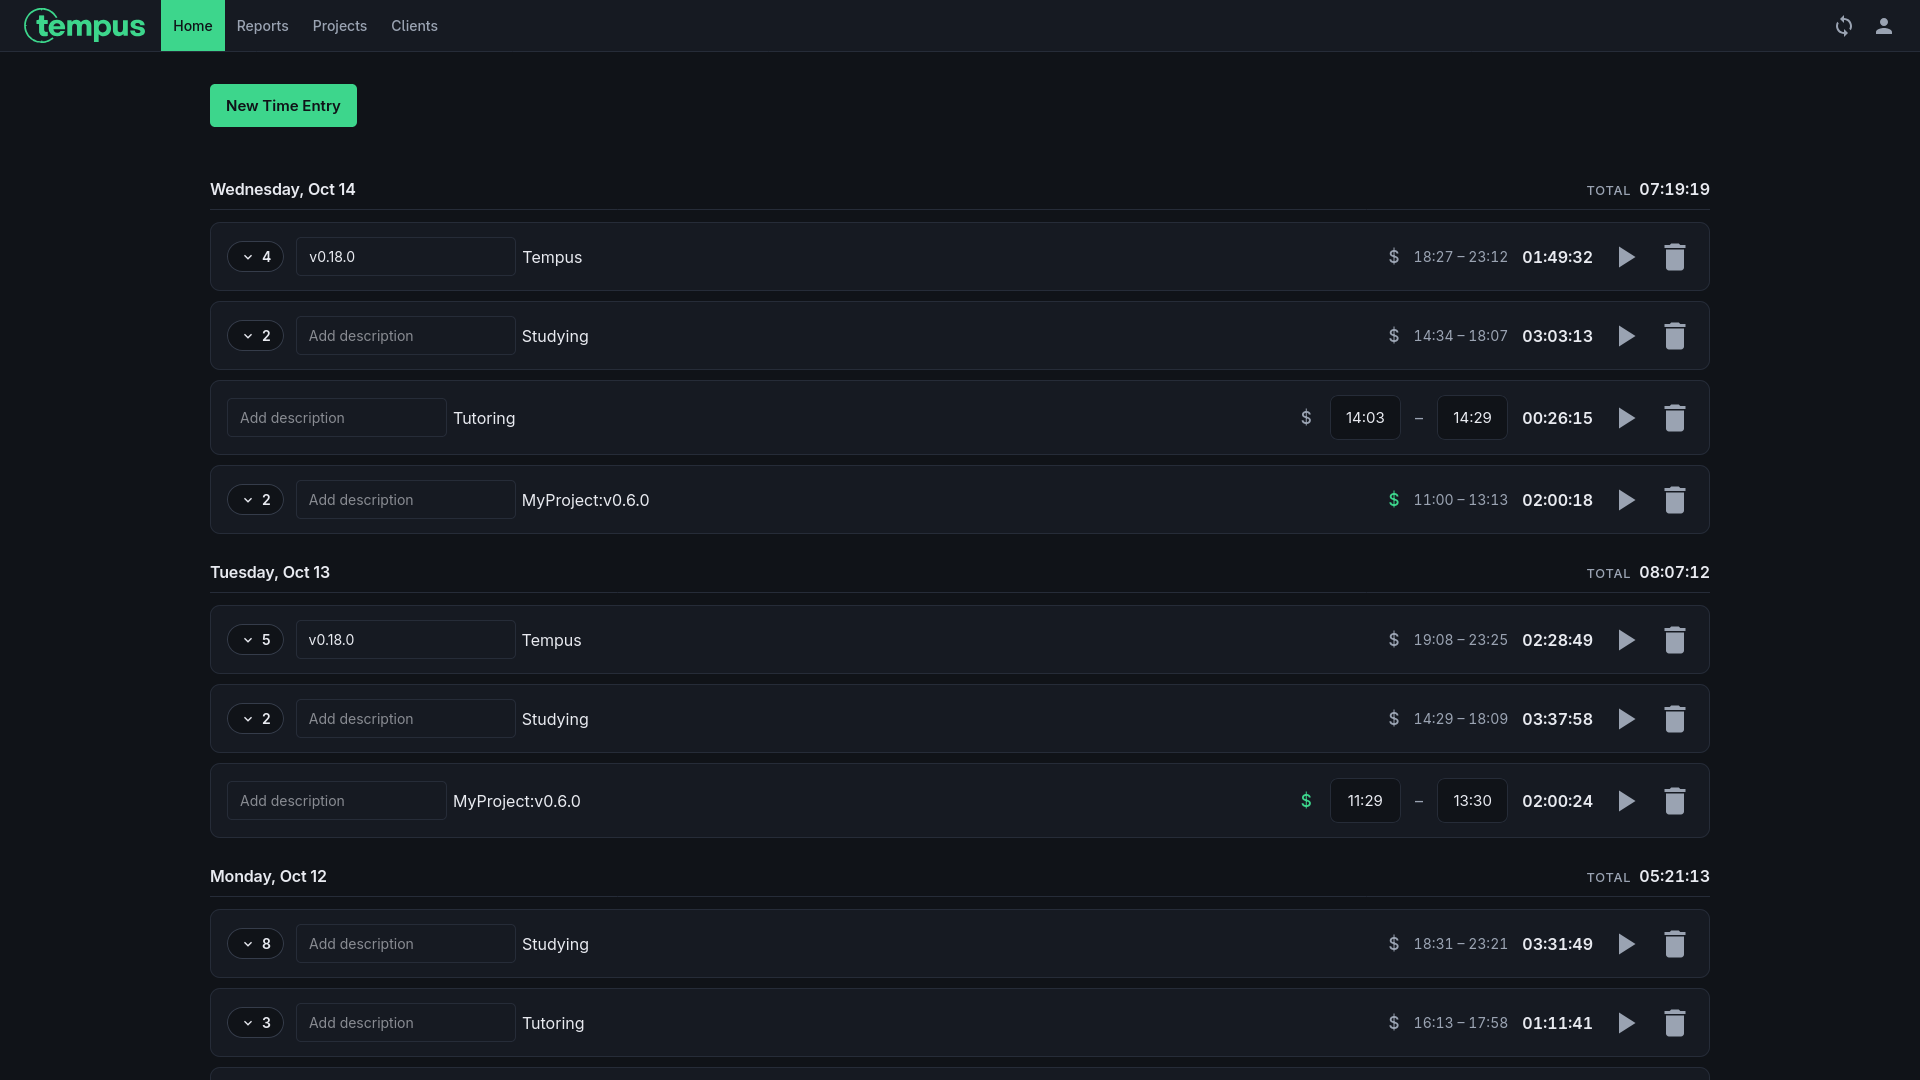
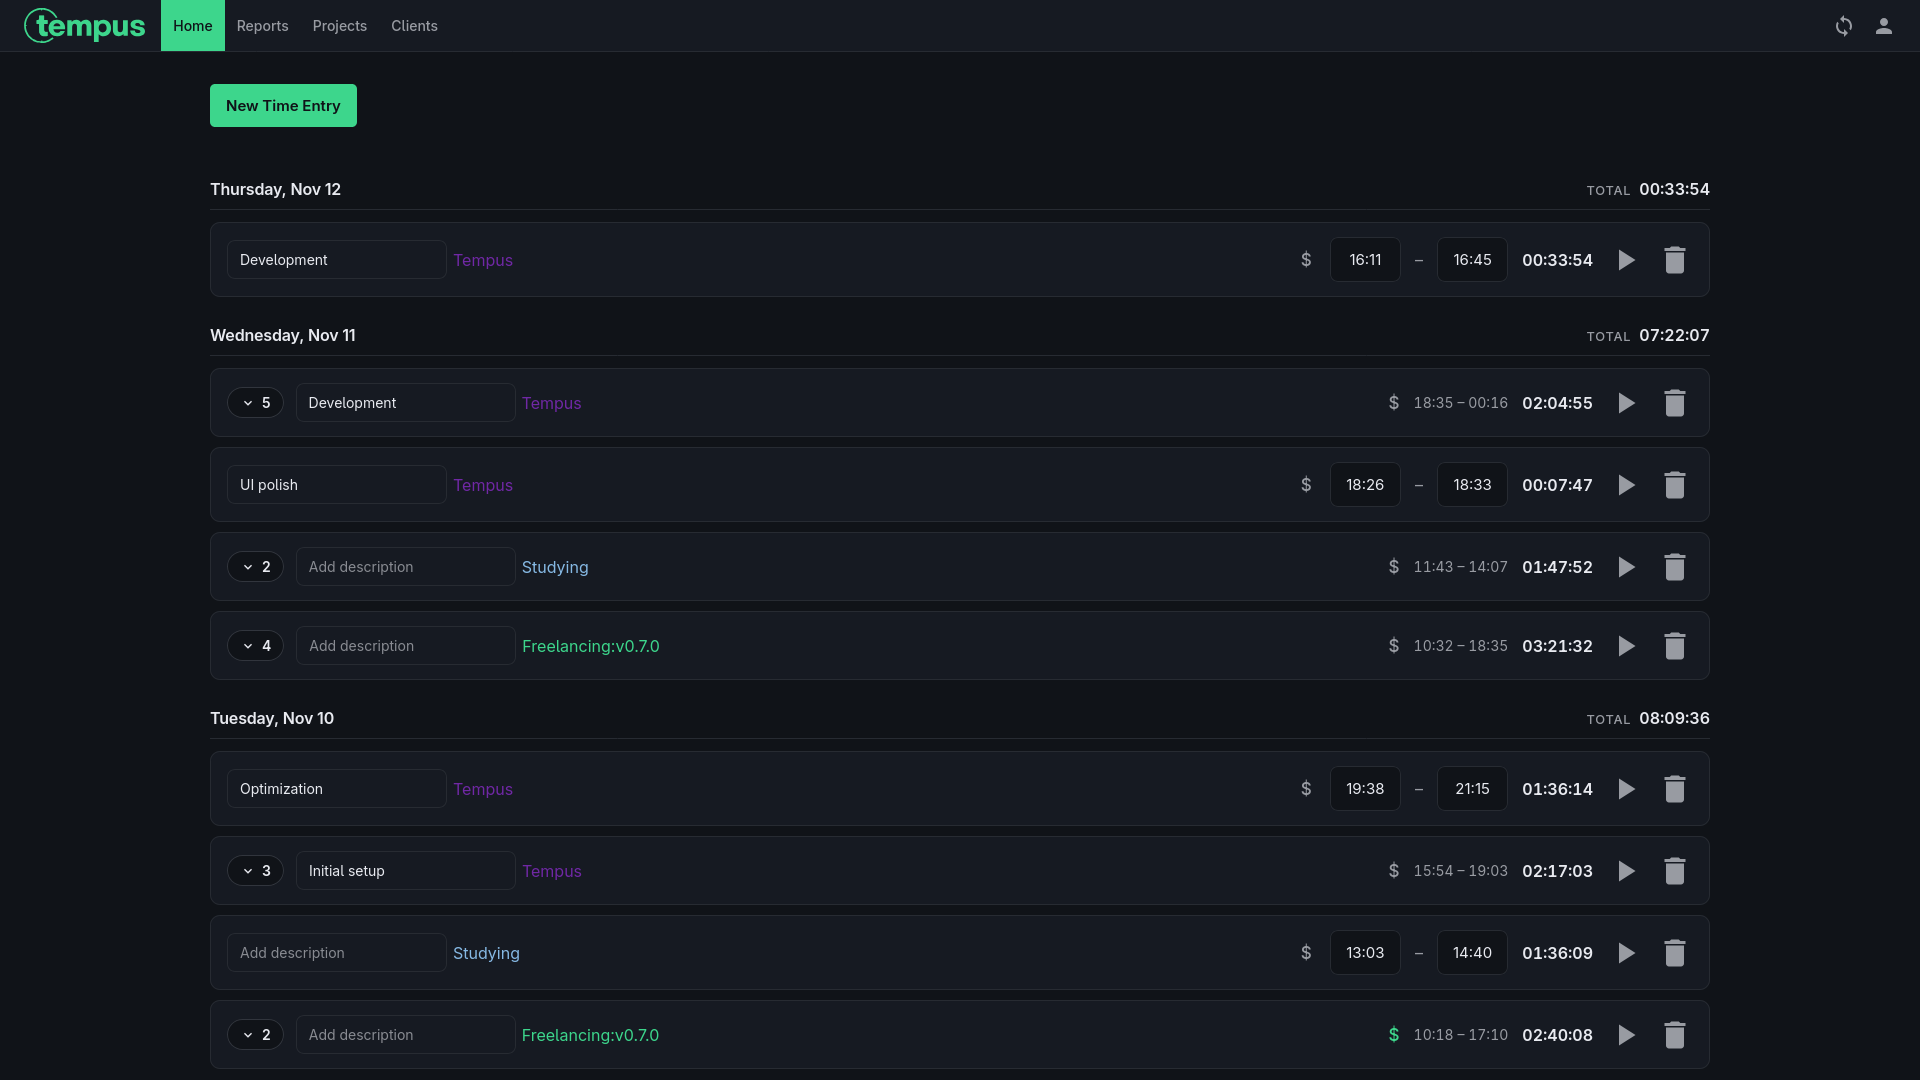
update README

diff --git a/README.md b/README.md
@@ -17,6 +17,7 @@ The way time is tracked is through time entries. Each **time entry** has:
 
 Additionally, every **project** has:
 
+- Color
 - Client (optional)
 - Hourly rate (optional)
 
@@ -28,13 +29,22 @@ All these attributes help organize time entries into **reports**. These are a fi
 - Project(s)
 - Task(s)
 - Description(s)
+- Client(s)
 - Billable status
 
 These filters allow users to generate useful information for employers, project statistics or even just personal use.
 
 ![Reports](assets/reports.png)
 
+Once you are done working on a project, instead of deleting it and losing all of your tracked time entries, you can archive it. Once a project is archived, it won't show in the project selector for new time entries, but the data will still be there for any reports you generate.
+
 ![Projects](assets/projects.png)
+
+While tempus is shipped with default colors, language and currency, all of these can be configured in the settings page. Changing the currency WILL NOT convert any previous data into the new currency you set, currencies are purely visual/for reference.
+
+![Localization](assets/localization.png)
+
+![Appearance](assets/appearance.png)
 
 ## Data Storage
 
@@ -105,10 +115,3 @@ Luckily, someone else encountered this issue as well and coded a solution for it
 6. Click on `Confirm`.
 
 This will import all the time entries in the CSV file an show any errors that are encountered during the import.
-
-## Planned Features
-
-Tempus is far from complete, so far the following features are planned:
-
-- Improve responsiveness for smaller devices
-
